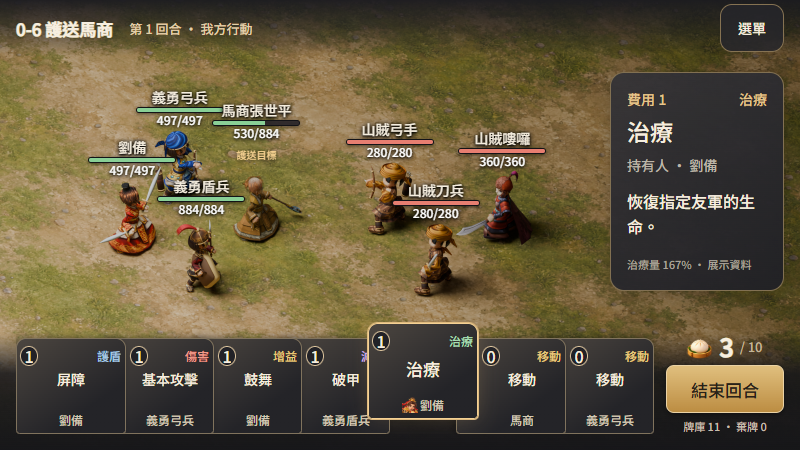
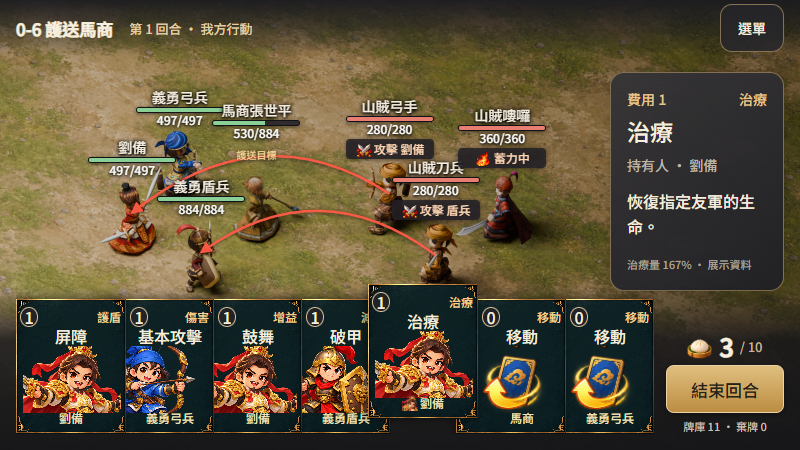
準備Unity戰場素材並沿用金框立繪修訂手牌與瞄準拼稿

diff --git a/docs/ui-commercial-review/battle-revision-04/battle.js b/docs/ui-commercial-review/battle-revision-04/battle.js
@@ -5,10 +5,14 @@ const units={liubei:['劉備',497,497,''],r_shield:['義勇盾兵',884,884,''],r
 const face=n=>`../../../client/Assets/Resources/ChibiSkin/face_${n}.png`;
 function fit(){const w=ratio==='20:9'?1000:800,wrap=document.querySelector('#wrap'),scene=document.querySelector('#scene');if(params.has('export')){wrap.style.width=w+'px';wrap.style.height='450px';return;}const scale=wrap.clientWidth/w;scene.style.transform=`scale(${scale})`;wrap.style.height=450*scale+'px';}
 function details(){const el=document.querySelector('#details');el.classList.toggle('empty',selected<0);if(selected<0){el.innerHTML='<h2>護送馬商</h2><p>保護張世平，擊退敵軍。</p><small class="note">點按手牌查看效果</small>';return;}const c=cards[selected%cards.length];el.innerHTML=`<div class="detail-meta"><span>費用 ${c.cost}</span><span>${c.type}</span></div><h2>${c.name}</h2><div class="detail-owner">持有人 · ${c.owner}</div><p>${c.effect}</p><small class="note">${c.detail}</small>`;}
-function hand(){const el=document.querySelector('#hand'),w=el.clientWidth,step=Math.max(56,Math.min(120,(w-110)/Math.max(1,count-1)));el.innerHTML=Array.from({length:count},(_,i)=>{const c=cards[i%cards.length];return `<button class="card ${i===selected?'selected':''}" style="left:${i*step}px;z-index:${count-i};--peek:${i===0?110:Math.min(110,step)}px" data-card="${i}" aria-label="${c.name}，${c.type}，費用${c.cost}，持有人${c.owner}" aria-pressed="${i===selected}"><span class="cost">${c.cost}</span><span class="type ${c.cls}">${c.type}</span><span class="name">${c.name}</span><span class="owner"><img src="${face(c.face)}" alt="">${step<68?({義勇弓兵:"弓兵",義勇盾兵:"盾兵"}[c.owner]||c.owner):c.owner}</span></button>`;}).join('');el.querySelectorAll('button').forEach(b=>b.onclick=()=>{selected=selected===Number(b.dataset.card)?-1:Number(b.dataset.card);hand();details();document.querySelector('#status').textContent=selected<0?'已收回卡牌詳情。':'已查看 '+cards[selected%7].name+'；未執行出牌。';});}
+function hand(){const el=document.querySelector('#hand'),w=el.clientWidth,step=Math.max(56,Math.min(120,(w-110)/Math.max(1,count-1)));el.innerHTML=Array.from({length:count},(_,i)=>{const c=cards[i%cards.length];return `<button class="card ${i===selected?'selected':''}" style="left:${i*step}px;z-index:${count-i};--peek:${i===0?110:Math.min(110,step)}px" data-card="${i}" aria-label="${c.name}，${c.type}，費用${c.cost}，持有人${c.owner}" aria-pressed="${i===selected}"><span class="cost">${c.cost}</span><span class="type ${c.cls}">${c.type}</span><span class="name">${c.name}</span><img class="card-art" src="../../../client/Assets/Resources/ChibiSkin/${c.name==='移動'?'draw':'bust_'+c.face}.png" alt=""><span class="owner"><img src="${face(c.face)}" alt="">${step<68?({義勇弓兵:"弓兵",義勇盾兵:"盾兵"}[c.owner]||c.owner):c.owner}</span></button>`;}).join('');el.querySelectorAll('button').forEach(b=>b.onclick=()=>{selected=selected===Number(b.dataset.card)?-1:Number(b.dataset.card);hand();details();document.querySelector('#status').textContent=selected<0?'已收回卡牌詳情。':'已查看 '+cards[selected%7].name+'；未執行出牌。';});}
 let anchors={};
-function render(){document.querySelector('#scene').classList.toggle('wide',ratio==='20:9');document.querySelector('#ratio').value=ratio;document.querySelector('#count').value=count;document.querySelector('#field').innerHTML=(anchors[ratio]||[]).map(a=>{const u=units[a.id];return `<div class="hud ${a.id.startsWith('bandit')?'enemy':''}" style="left:${a.x*100}%;top:${a.y*100}%" data-unit="${a.id}"><b>${u[0]}</b><div class="hp"><i style="width:${u[1]/u[2]*100}%"></i></div><small>${u[1]}/${u[2]}</small>${u[3]?`<span class="state">${u[3]}</span>`:''}</div>`;}).join('');hand();details();fit();}
+function enemyIntent(id){if(!id.startsWith('bandit'))return '';const charge=id==='bandit_shaman',text=charge?'蓄力中':id==='bandit_archer'?'攻擊 劉備':'攻擊 盾兵';return `<span class="intent"><img src="../../../client/Assets/Resources/ChibiSkin/${charge?'charge':'damage'}.png" alt="">${text}</span>`;}
+function aimLines(){const w=ratio==='20:9'?1000:800,points=anchors[ratio]||[],p=id=>points.find(a=>a.id===id),arcs=[['bandit_archer','liubei'],['bandit_grunt','r_shield']].map(([from,to])=>{const a=p(from),b=p(to);if(!a||!b)return '';const x=a.x*w,y=a.y*450+35,tx=b.x*w,ty=b.y*450+36,cx=(x+tx)/2,cy=Math.min(y,ty)-84;return `<path d="M${x},${y} Q${cx},${cy} ${tx},${ty}" marker-end="url(#aim-head)"/>`;}).join('');document.querySelector('#field').insertAdjacentHTML('afterbegin',`<svg class="aim-lines" viewBox="0 0 ${w} 450" aria-label="敵人瞄準目標示意"><defs><marker id="aim-head" markerWidth="5" markerHeight="5" refX="4" refY="2.5" orient="auto"><path d="M0,0 L5,2.5 L0,5" fill="#ff5a46" stroke="none"/></marker></defs>${arcs}</svg>`);}
+function render(){document.querySelector('#scene').classList.toggle('wide',ratio==='20:9');document.querySelector('#ratio').value=ratio;document.querySelector('#count').value=count;document.querySelector('#field').innerHTML=(anchors[ratio]||[]).map(a=>{const u=units[a.id];return `<div class="hud ${a.id.startsWith('bandit')?'enemy':''}" style="left:${a.x*100}%;top:${a.y*100}%" data-unit="${a.id}"><b>${u[0]}</b><div class="hp"><i style="width:${u[1]/u[2]*100}%"></i></div><small>${u[1]}/${u[2]}</small>${u[3]?`<span class="state">${u[3]}</span>`:''}${enemyIntent(a.id)}</div>`;}).join('');aimLines();hand();details();fit();}
 document.querySelector('#count').onchange=e=>{count=Number(e.target.value);selected=-1;render();};document.querySelector('#ratio').onchange=e=>{ratio=e.target.value;render();};document.querySelector('#menu').onclick=()=>document.querySelector('dialog').showModal();document.querySelector('#close').onclick=()=>document.querySelector('dialog').close();document.querySelector('#end').onclick=()=>{document.querySelector('#status').textContent='已點選結束回合；原型不執行回合結算。';};window.addEventListener('resize',fit);if(params.has('export'))document.body.classList.add('export');fetch('assets/anchors.json').then(r=>r.json()).then(a=>{anchors=a;render();});document.fonts.ready.then(fit);
+
+
 
 
 

diff --git a/docs/ui-commercial-review/battle-revision-04/index.html b/docs/ui-commercial-review/battle-revision-04/index.html
@@ -1,3 +1,4 @@
 <!doctype html>
-<html lang="zh-Hant"><head><meta charset="utf-8"><meta name="viewport" content="width=device-width,initial-scale=1"><link rel="icon" href="data:,"><link rel="stylesheet" href="battle.css"><script src="battle.js" defer></script><title>戰鬥 UX · 提案 04</title></head><body><header><small>三國將星傳 · 戰鬥介面提案 04</small><h1>看戰場，再看選中的牌</h1><p>沿用專案 3D 模型離線渲染；互動示範未接入遊戲規則。</p></header><main><div class="tools"><a href="../revision-03/index.html">主城提案</a><label>比例<select id="ratio"><option>16:9</option><option>20:9</option></select></label><label>手牌<select id="count"><option>3</option><option selected>7</option><option>10</option></select></label><a href="README.md">素材與接入規格</a></div><div id="wrap"><div id="scene"><div id="field"></div><div class="top"><span><b>0-6 護送馬商</b><small>第 1 回合 · 我方行動</small></span><button id="menu" aria-label="戰鬥選單">選單</button></div><aside id="details"></aside><div class="bottom"><div id="hand"></div><div class="turn"><div class="energy"><img src="../../../client/Assets/Resources/ChibiSkin/item_stamina.png" alt=""><b>3</b><small>/ 10</small></div><button id="end">結束回合</button><small>牌庫 11 · 棄牌 0</small></div></div></div></div><p id="status" role="status">點按手牌查看右側詳情；再點同一張收回。展示資料不代表實際戰鬥。</p></main><dialog><h2>戰鬥選單</h2><button id="close">返回戰鬥</button><p>撤退／重來由原有遊戲流程接入。</p></dialog></body></html>
+<html lang="zh-Hant"><head><meta charset="utf-8"><meta name="viewport" content="width=device-width,initial-scale=1"><link rel="icon" href="data:,"><link rel="stylesheet" href="battle.css"><link rel="stylesheet" href="classic-hand.css"><script src="battle.js" defer></script><title>戰鬥 UX · 提案 04</title></head><body><header><small>三國將星傳 · 戰鬥介面提案 04</small><h1>既有手牌微調 · 自然戰场</h1><p>沿用立繪、金框與既有 3D 場景拼稿；Unity 素材已準備，意圖與瞄準對象為展示範例。</p></header><main><div class="tools"><a href="../revision-03/index.html">主城提案</a><label>比例<select id="ratio"><option>16:9</option><option>20:9</option></select></label><label>手牌<select id="count"><option>3</option><option selected>7</option><option>10</option></select></label><a href="README.md">素材與接入規格</a></div><div id="wrap"><div id="scene"><div id="field"></div><div class="top"><span><b>0-6 護送馬商</b><small>第 1 回合 · 我方行動</small></span><button id="menu" aria-label="戰鬥選單">選單</button></div><aside id="details"></aside><div class="bottom"><div id="hand"></div><div class="turn"><div class="energy"><img src="../../../client/Assets/Resources/ChibiSkin/item_stamina.png" alt=""><b>3</b><small>/ 10</small></div><button id="end">結束回合</button><small>牌庫 11 · 棄牌 0</small></div></div></div></div><p id="status" role="status">點按手牌查看右側詳情；再點同一張收回。展示資料不代表實際戰鬥。</p></main><dialog><h2>戰鬥選單</h2><button id="close">返回戰鬥</button><p>撤退／重來由原有遊戲流程接入。</p></dialog></body></html>
+
 

diff --git a/docs/ui-commercial-review/battle-revision-04/classic-hand.css b/docs/ui-commercial-review/battle-revision-04/classic-hand.css
@@ -1,0 +1,2 @@
+.bottom{height:165px}#hand{height:150px}.card,.card.selected{height:135px;background:#102024;border-radius:1px;border-image-source:url('../../../client/Assets/Resources/ChibiSkin/panel.png');border-image-slice:96 fill;border-image-width:7px;box-shadow:-3px 0 8px #0006}.card .name,.card.selected .name{top:27px;font-size:16px;line-height:18px}.card-art{position:absolute;left:6px;right:6px;top:46px;width:98px;height:67px;object-fit:contain;pointer-events:none}.card .owner,.card.selected .owner{bottom:7px;color:#eee1ba}.card .owner img{display:none}.card .type{color:#f7d394}.intent{display:flex;justify-content:center;align-items:center;gap:3px;color:#ffd7b4;font-size:12px;background:#252127d9;border-radius:4px;margin-top:3px;line-height:20px;height:20px}.intent img{width:16px;height:16px;object-fit:contain}.hud{z-index:2}.aim-lines{position:absolute;inset:0;width:100%;height:450px;pointer-events:none;z-index:1;overflow:visible}.aim-lines>path{stroke:#ff5a46;stroke-width:2.5;fill:none;opacity:.95;filter:drop-shadow(0 1px 2px #0008)}
+.card-art{object-fit:cover;object-position:50% 20%}.card:has(.type.buff) .card-art[src$="draw.png"]{object-fit:contain}

diff --git a/client/Assets/Resources/BattleArt/README.md b/client/Assets/Resources/BattleArt/README.md
@@ -1,0 +1,26 @@
+# 戰鬥美術素材與微調規格
+
+2026-10-10。依最新指示，以既有手牌立繪／金框微調及素材拼稿交付，不重做人物模型，不重新渲染場景。
+
+## 素材
+
+- `GrassDirt.png`：沿用本輪已生成的草地／裸土 albedo，原素材在 `docs/ui-commercial-review/battle-revision-04/assets/ground-grass-dirt.png`。新增 Unity TextureImporter meta，sRGB、mipmap、Repeat。
+- `NaturalGround.shader`／`NaturalGround.mat`：URP地表材質，採白色 tint，不染成綠色棋盤；接收主光陰影。地面使用連續UV，不能每格重設UV造成重複棋盤圖案。原模型、邏輯格與移動判定保持原有設定。材質供接入，尚未替換原 ProductionBoard prefab。
+- `EnemyAim.shader`／`EnemyAim.mat`：URP透明紅線材質，白色頂點色、紅色材質，不寫深度、正常深度測試。給原生 LineRenderer／箭頭mesh使用，不需新增生成圖。模型遮擋採正常深度；正式可讀性依鏡頭驗收。
+- `HandCompact.uss`：附加樣式候選，沿用原 `ChibiSkin/panel.png` 與 `PortraitArt`；244高牌身、138高人物區、費用和右上角大類型、名稱與持有人；手牌不常駐效果數值。尚未加入 PageHost 載入清單，避免將本輪素材提案誤作已完成執行期接入。
+
+沿用而非新製：全部人物模型、立繪、金框、damage／charge／draw意圖圖示。只新增Unity材質／樣式封裝，地表圖片是上一階段已生成的素材，沒有再次呼叫生成服務。
+
+## Claude Code 接入
+
+現有 `BattleScreen.Render.cs` 的 `FillIntent` 已讀取 `_battle.GetIntent(enemy)` 並顯示攻擊目標、蓄力或逼近；保留既有意圖計算。頭頂HUD必須繼續顯示該意圖。
+
+紅色拋物線使用同一份實際intent.Target，起點敵人胸口、終點目標胸口；二次Bezier，控制點在兩端中點上方約1.2～1.8世界單位，24～32採樣點。LineRenderer寬約0.025～0.045世界單位，末端三角箭頭，使用 `EnemyAim.mat`。只有Attack且Target存活時顯示；蓄力、逼近、死亡、目標為空時關閉。回合、位置或意圖更新時重算，不能由美術重新決定敵人瞄準誰。拼稿兩條線是展示關係，不是實際關卡AI資料。
+
+手牌上限10張，保留現有 `LayoutHand` 的靠攏／重疊／選牌抬高，依實際手機畫布調間距。牌面欄位費用、名稱、持有人與右上類型；詳細描述沿用右側 `_detail`。`sts-card-category` 與 `sts-card-owner` 需在原渲染中加入Label，依企劃提供的類型映射，不新增卡牌效果。套用附加USS後同步調整底部佔位，避免只缩牌身卻仍留大空區。
+
+## 驗證
+
+素材GUID引用、PNG路徑與既有底材均已核對。兩種比例3／7／10張的拼稿逐牌點選與右側詳情通過；敵人三組意圖、兩條紅色Bezier指示已展示。沒有Unity Shader編譯、材質導入或遊戲實機驗收紀錄，故本包狀態為「素材／接入規格已備妥」，不是已完成遊戲整合。
+
+最新拼稿：`docs/ui-commercial-review/battle-revision-04/index.html`。本檔的修訂方向取代該提案README中先前純文字牌身的方向；原先離線人物渲染直接沿用，本轮没有再重製。
